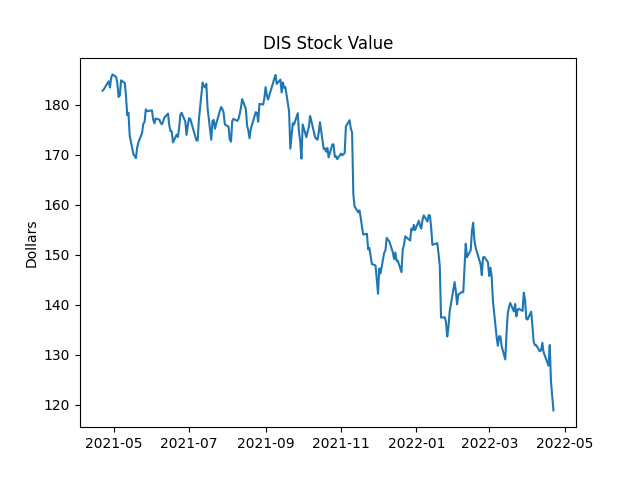
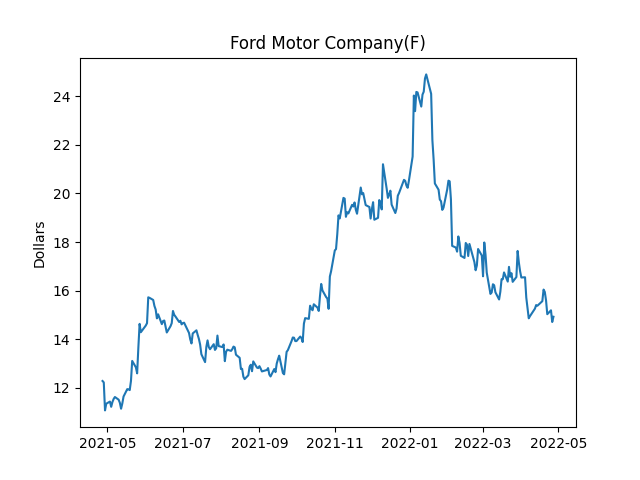
Sprint 4 V3

diff --git a/FrontEnd/BAWS/__init__.py b/FrontEnd/BAWS/__init__.py
@@ -141,7 +141,10 @@ def recommend():
             plt.clf()
             plt.plot(yearDF.index, yearDF['Close'])
             plt.ylabel('Dollars')
-            plt.title(chosen_stock + " Stock Value")
+            try:
+                plt.title(yf.Ticker(chosen_stock).info['longName'] + "(" + chosen_stock +")")
+            except:
+                print("no value in chosen_stock")
             plt.savefig("FrontEnd\BAWS\static\images\plot1pic.png")
             return render_template('recommend_page.html', error = "")
         else:
